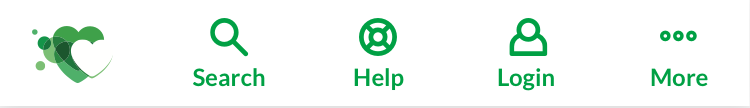
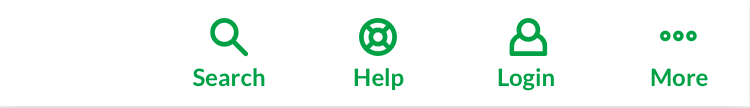
add form and actionbar

Changed region(s): [[0.0307, 0.2222, 0.1533, 0.7778]]

diff --git a/framer/framer.generated.js b/framer/framer.generated.js
@@ -939,7 +939,34 @@ window.__imported__["Refactor@2x/layers.json.js"] = [
 				"height": 54
 			}
 		},
-		"children": []
+		"children": [
+			{
+				"objectId": "2742105A-8F02-4106-B738-1F062E245E08",
+				"kind": "group",
+				"name": "headerLogo",
+				"maskFrame": null,
+				"layerFrame": {
+					"x": 16,
+					"y": 13,
+					"width": 41,
+					"height": 29
+				},
+				"visible": true,
+				"metadata": {
+					"opacity": 1
+				},
+				"image": {
+					"path": "images/Layer-headerLogo-mjc0mjew.png",
+					"frame": {
+						"x": 16,
+						"y": 13,
+						"width": 41,
+						"height": 29
+					}
+				},
+				"children": []
+			}
+		]
 	}
 ]
 if (typeof(DeviceComponent) !== "undefined") {DeviceComponent.Devices["iphone-6-silver"].deviceImageJP2 = false};

diff --git a/imported/Refactor@2x/layers.json.js b/imported/Refactor@2x/layers.json.js
@@ -935,6 +935,33 @@ window.__imported__["Refactor@2x/layers.json.js"] = [
 				"height": 54
 			}
 		},
-		"children": []
+		"children": [
+			{
+				"objectId": "2742105A-8F02-4106-B738-1F062E245E08",
+				"kind": "group",
+				"name": "headerLogo",
+				"maskFrame": null,
+				"layerFrame": {
+					"x": 16,
+					"y": 13,
+					"width": 41,
+					"height": 29
+				},
+				"visible": true,
+				"metadata": {
+					"opacity": 1
+				},
+				"image": {
+					"path": "images/Layer-headerLogo-mjc0mjew.png",
+					"frame": {
+						"x": 16,
+						"y": 13,
+						"width": 41,
+						"height": 29
+					}
+				},
+				"children": []
+			}
+		]
 	}
 ]
